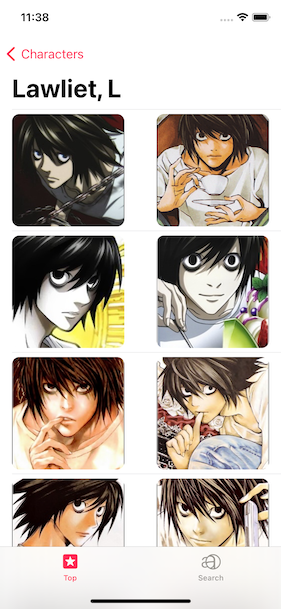
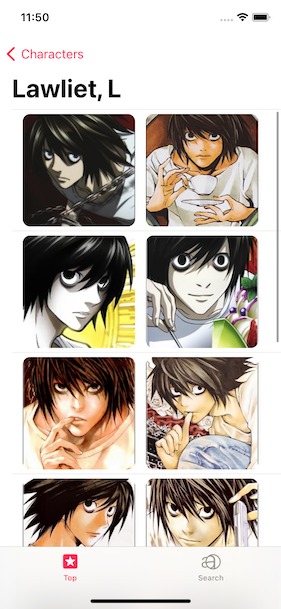
Ajdust characters detail view

diff --git a/AnimeUI/Features/Characters/Detail/CharacterDetailView.swift b/AnimeUI/Features/Characters/Detail/CharacterDetailView.swift
@@ -23,6 +23,7 @@ struct CharacterDetailView: View {
     List {
       ForEach(data.pictures ?? placeHolders, id: \.id) { picPair in
         HStack {
+          Spacer()
           if let image = picPair.first.small,
              let url = URL(string: image) {
             KFImage(url)
@@ -48,6 +49,7 @@ struct CharacterDetailView: View {
               .scaledToFit()
             .foregroundColor(.gray)
           }
+          Spacer()
         }
       }
       
